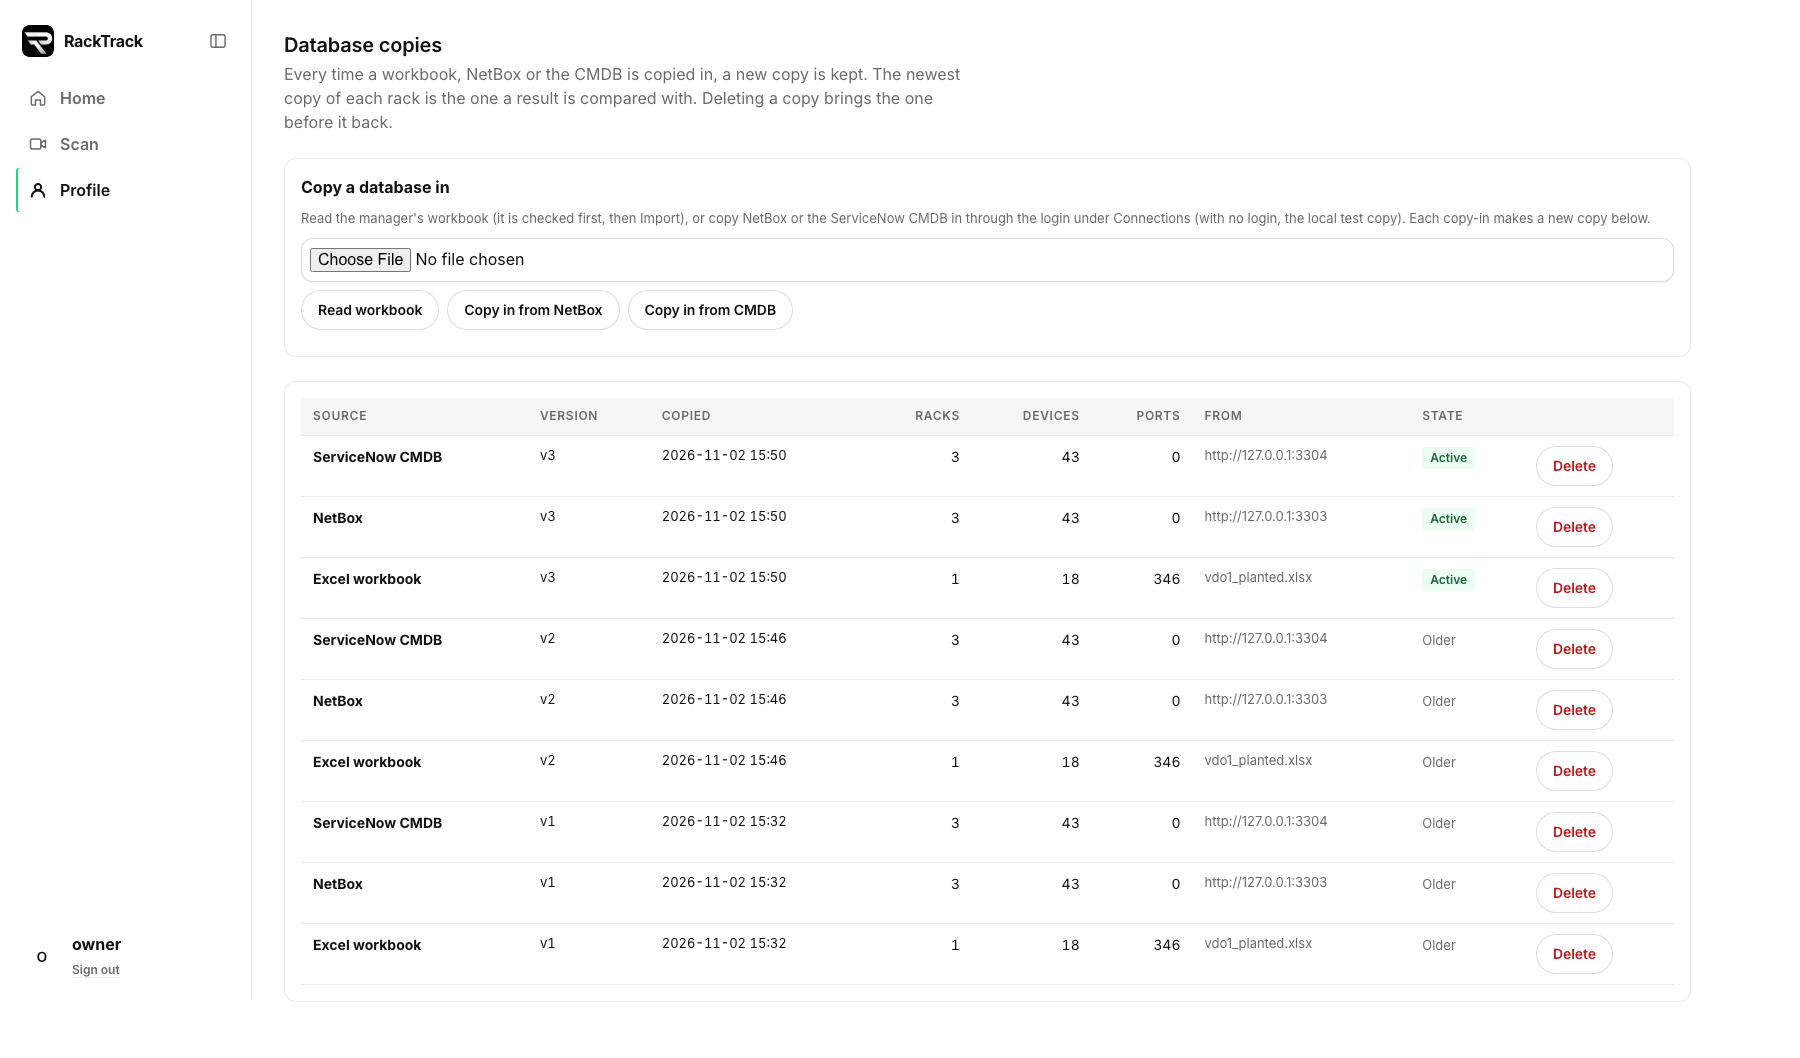
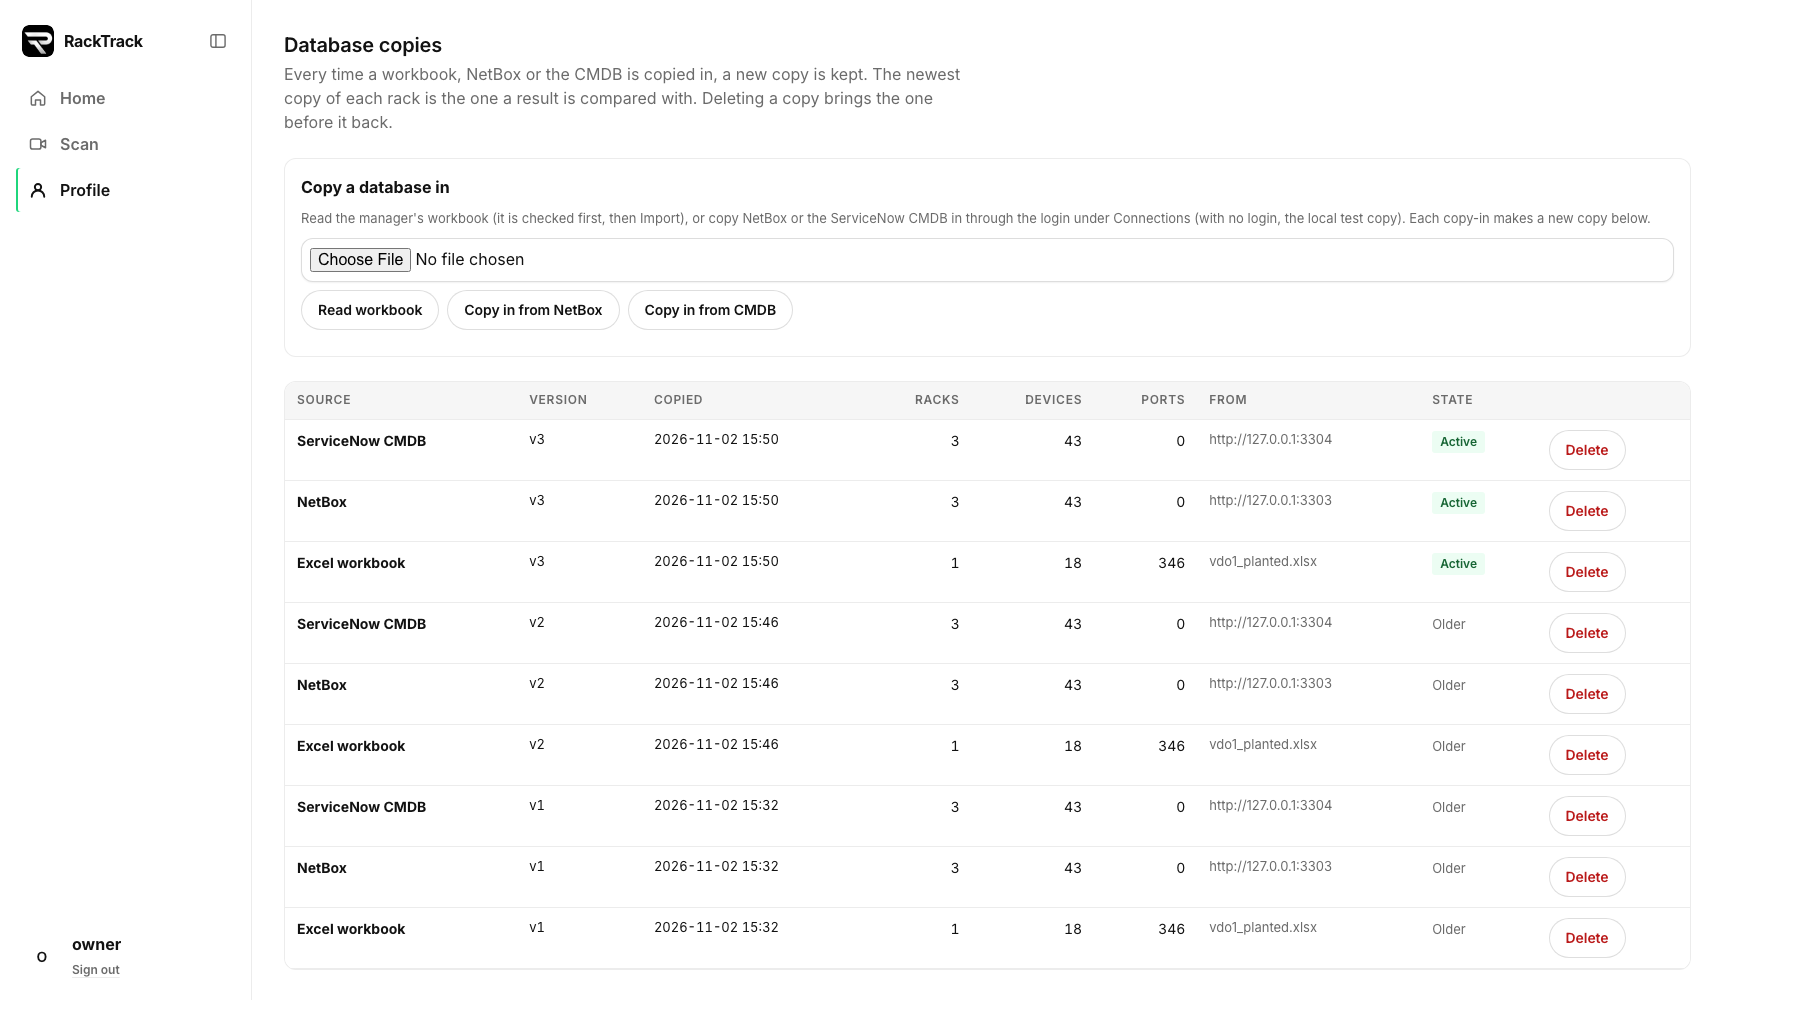
Database copies fit a phone (the racks column hidden there, compact cells, the table card without its inner padding) and its empty text points at Copy in above, not the old Drift tab

diff --git a/mobile/app.js b/mobile/app.js
@@ -1003,7 +1003,7 @@
   // Database copies (Profile): every copy with its source, version, time and counts; the active ones marked; delete
   function loadCopies() { api('/api/sources/copies').then(renderCopies).catch(function (e) { $('cp-list').innerHTML = '<p class="err">' + esc(e.message) + '</p>'; }); }
   function renderCopies(d) {
-    if (!d.copies.length) { $('cp-list').innerHTML = '<div class="card"><p class="muted">No copy yet. Read a workbook or copy NetBox or the CMDB in from a run\'s Drift tab.</p></div>'; return; }
+    if (!d.copies.length) { $('cp-list').innerHTML = '<div class="card"><p class="muted">No copy yet. Read a workbook or copy NetBox or the CMDB in above.</p></div>'; return; }
     $('cp-list').innerHTML = '<div class="card flush"><table class="dftable cptable"><thead><tr><th>Source</th><th class="wide">Version</th><th class="wide">Copied</th><th class="cpn">Racks</th><th class="cpn">Devices</th><th class="cpn wide">Ports</th><th class="wide">From</th><th>State</th><th></th></tr></thead><tbody>'
       + d.copies.map(function (c) { return '<tr data-copy="' + c.id + '"' + (c.active ? ' class="on"' : '') + '><td><b>' + esc(d.sources[c.source] || c.source) + '</b><span class="cpwhen small muted">v' + c.version + ' · ' + esc(c.imported_at.replace('T', ' ').slice(0, 16)) + '</span></td><td class="mono wide">v' + c.version + '</td><td class="mono small wide">' + esc(c.imported_at.replace('T', ' ').slice(0, 16)) + '</td>'
         + '<td class="cpn">' + c.racks + '</td><td class="cpn">' + c.devices + '</td><td class="cpn wide">' + (c.ports || 0) + '</td><td class="wide small muted">' + esc(String(c.file || '').replace(/^workbook_[0-9a-f]{8}_/, '')) + '</td>'

diff --git a/mobile/flow.css b/mobile/flow.css
@@ -138,3 +138,10 @@ table.rptable, table.dftable, table.cptable, table.wbtable { border-collapse:col
   .scanpage .scanbody > #sw-tips { grid-column:2; grid-row:1 / span 2; }
 }
 .scanpage .or { border:0 !important; font-family:var(--font) !important; font-size:13px !important; color:var(--t2); }
+#cp-list > .card, .card.flush { padding:0 !important; overflow:hidden; }
+@media (max-width:600px) {
+  .cptable td, .cptable th, .dftable td, .dftable th, .wbtable td, .wbtable th { padding:8px 6px !important; }
+  .cptable td:first-child, .cptable th:first-child { padding-left:12px !important; }
+  .cptable .btn { min-height:32px !important; padding:0 10px !important; font-size:13px !important; }
+}
+@media (max-width:600px) { .cptable th:nth-child(4), .cptable td:nth-child(4) { display:none; } .cptable .cpwhen { white-space:normal; } }

diff --git a/mobile/index.html b/mobile/index.html
@@ -15,7 +15,7 @@
 <link rel="preload" href="/app/fonts/inter-latin.woff2" as="font" type="font/woff2" crossorigin>
 <link rel="stylesheet" href="/app/app.css?v=127">
 <link rel="stylesheet" href="/app/rt/rt-topology.css?v=12">
-<link rel="stylesheet" href="/app/flow.css?v=8">
+<link rel="stylesheet" href="/app/flow.css?v=10">
 <style>
 /* the Drift tab: the database the run is checked against, the matched record, the differences */
 #df-top { display:flex; flex-direction:column; gap:12px; width:100%; }
@@ -359,6 +359,6 @@
 <div id="lb" hidden><img id="lbimg" alt=""><span>tap to close</span></div>
 <script src="/app/topology.js?v=1"></script>
 <script src="/app/rt/rt-topology.js?v=12" defer></script>
-<script src="/app/app.js?v=152"></script>
+<script src="/app/app.js?v=153"></script>
 </body>
 </html>
